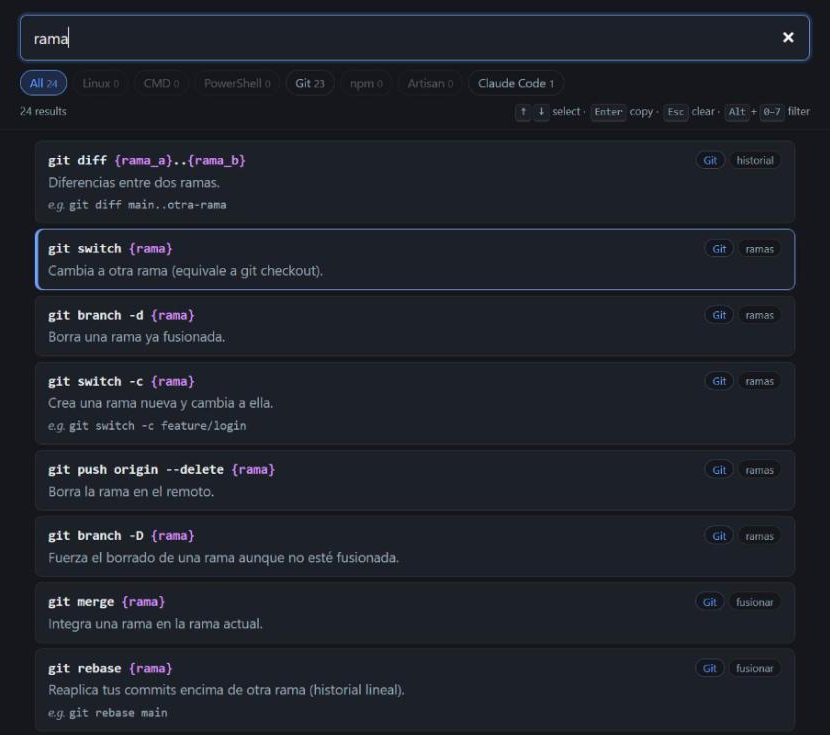
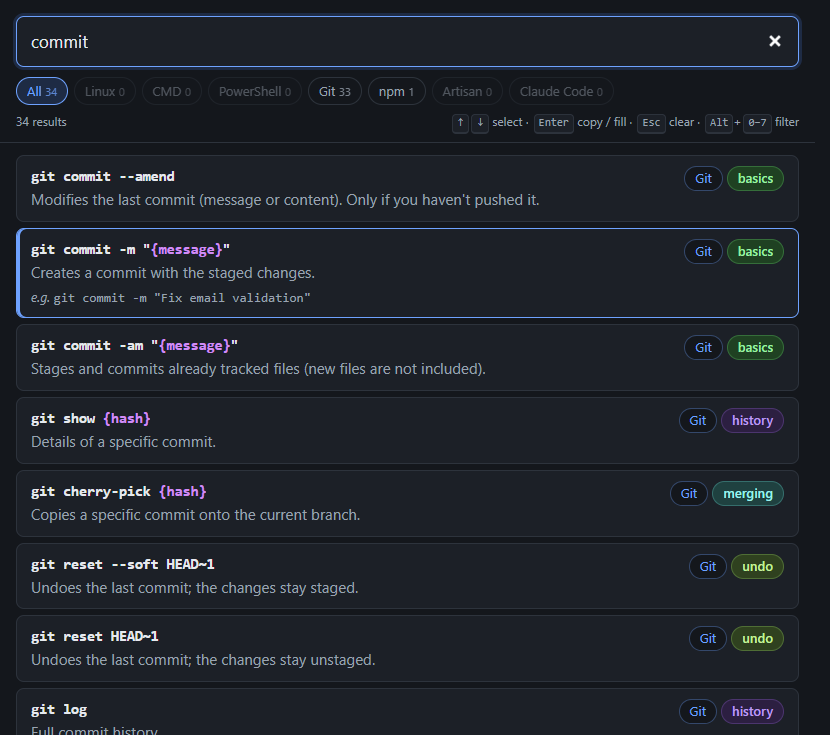
Update README screenshots for the English data and category colors

diff --git a/README.md b/README.md
@@ -8,7 +8,7 @@ Everything — UI, command data and code — is in English.
 
 | Light | Dark |
 |---|---|
-| ![Cheatsheet in light mode, searching "rama"](docs/screenshot-light.png) | ![Cheatsheet in dark mode, searching "rama"](docs/screenshot-dark.png) |
+| ![Cheatsheet in light mode, searching "commit"](docs/screenshot-light.png) | ![Cheatsheet in dark mode, searching "commit"](docs/screenshot-dark.png) |
 
 ## Features
 
